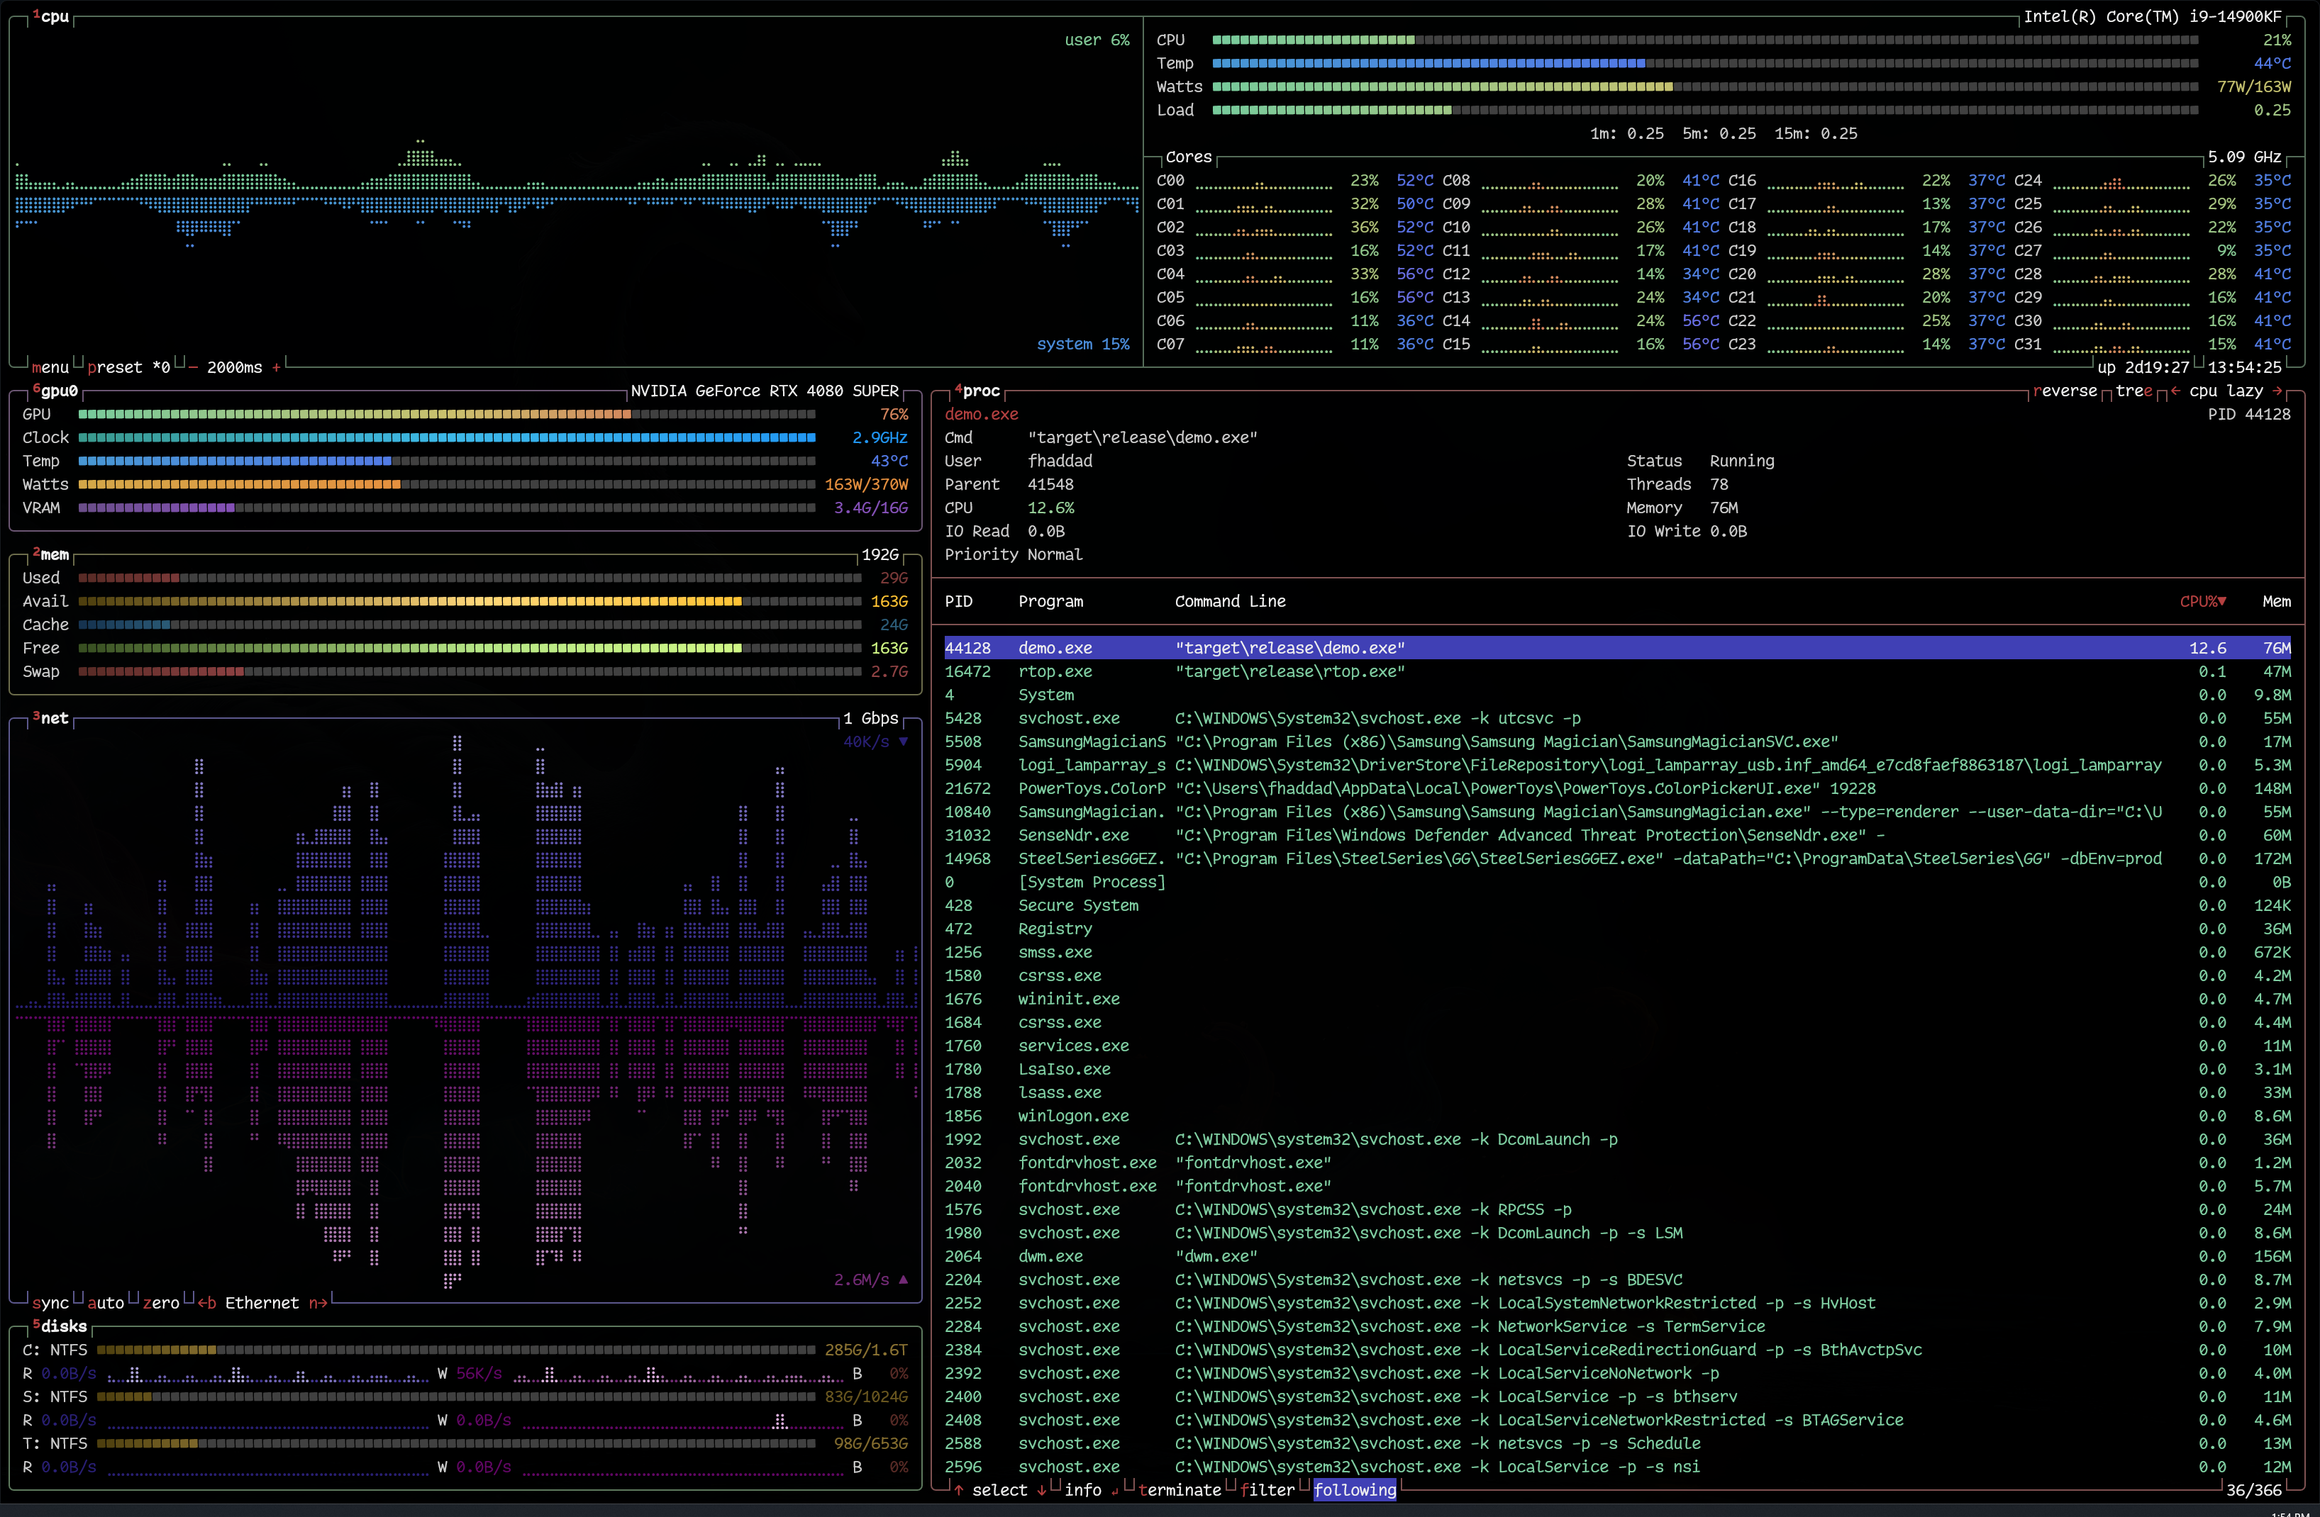
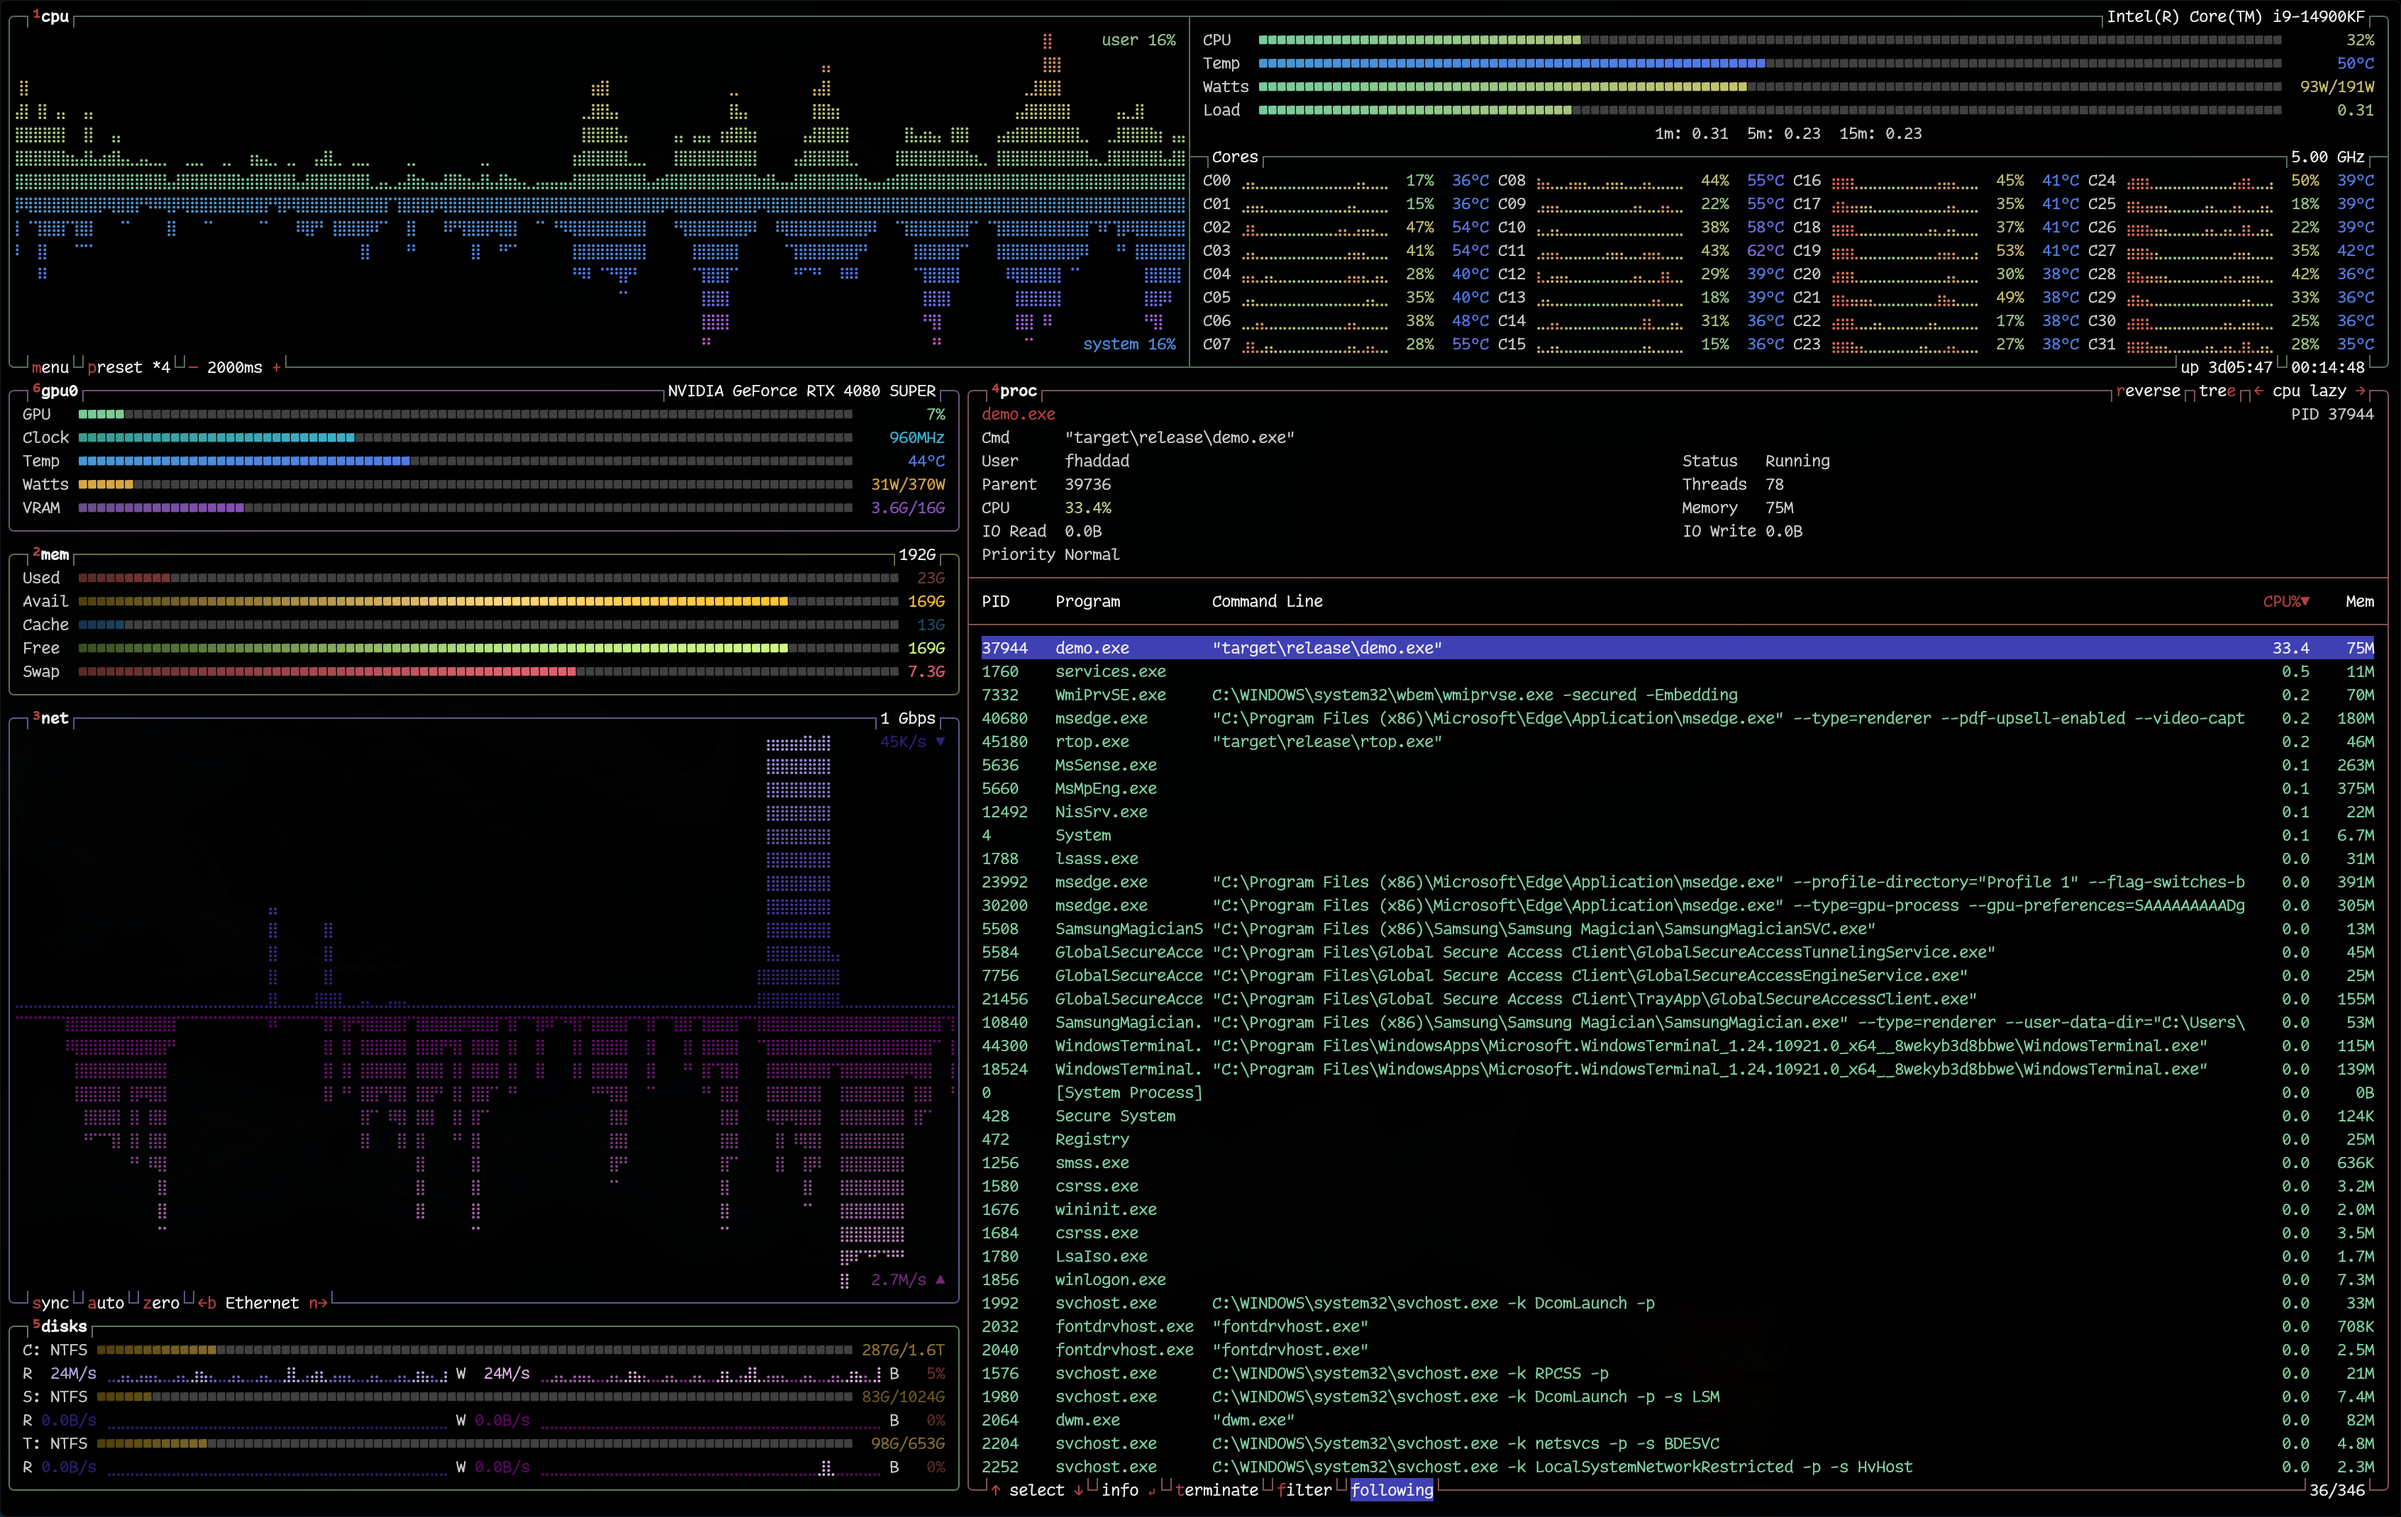
feat: opt-in cpu graph auto-scale
The CPU widget previously rendered both main graphs against a
hardcoded 0-100 y-axis, so a CPU hovering at 3-5% appeared as a
flat band hugging the bottom of the box. The net widget already
auto-scales (`net_auto`, default on) — make the same option
available for CPU.

Add `cpu_auto_scale: bool` config (default `false`, preserves
current behaviour). When enabled, each main graph's y-axis maxes
at the largest value in its visible window — same algorithm the
net widget uses. Upper and lower graphs scale independently
because they may be showing different sources (user vs system,
etc.).

Trade-off (why opt-in, not always-on). The current absolute
scale has real semantic value: a glance at the graph height *is*
the CPU%. Auto-scale gives visibility into low-load
fluctuations but loses that direct mapping, and shifts the
gradient meaning — at 5% (the visible max) the bar renders red
because the gradient is `value / max * gradient_len`. That is
visually loud for a quiet machine, so default-off keeps the
existing semantics for users who don't opt in.

Implementation. New `graph_max(data, width, auto_scale)` helper
in `src/ui/cpu_widget.rs` returns 100 when off, otherwise the
visible-window max with a `.max(1)` floor (avoids a degenerate
all-zero window dividing cleanly to 0). Callers pass it as the
`max_value` argument to `Graph::new` for the upper graph (line
334 in the rewritten file) and the lower graph (line 363). New
`auto_scale` field on `CpuWidgetSettings` plumbed from
[…]

diff --git a/src/ui/cpu_widget.rs b/src/ui/cpu_widget.rs
@@ -9,6 +9,7 @@ use crate::draw::meter::Meter;
 use crate::theme::{Theme, gradient_color};
 use crate::theme_keys as tc;
 use crate::tools;
+use std::collections::VecDeque;
 
 use super::WidgetArea;
 
@@ -21,6 +22,11 @@ pub struct CpuWidgetSettings<'a> {
     pub show_coretemp: bool,
     pub temp_scale: TempScale,
     pub single_graph: bool,
+    /// When `true`, scale each main graph's y-axis to the largest
+    /// value in its visible window (matches the net widget). When
+    /// `false` (default), scale to a fixed 0-100 absolute range —
+    /// the height of the bar then directly maps to the CPU%.
+    pub auto_scale: bool,
     pub update_ms: u64,
     pub current_preset: i64,
     pub invert_lower: bool,
@@ -59,6 +65,28 @@ pub fn stats_row_count(has_temp: bool, has_watts: bool) -> usize {
         n += 1;
     }
     n
+}
+
+/// Compute the y-axis maximum for a CPU graph row.
+///
+/// When `auto_scale` is `false` (default) returns 100 — the natural
+/// upper bound for CPU%. When `true`, returns the largest value in
+/// the most recent `width` data points (matches the net widget's
+/// `net_auto` algorithm). The `.max(1)` floor avoids a degenerate
+/// max=0 reading on an all-zero window; `Graph::new` would replace
+/// max=0 with 100 internally, but flooring at 1 keeps the
+/// per-frame semantic stable when data first becomes non-zero.
+fn graph_max(data: &VecDeque<i64>, width: usize, auto_scale: bool) -> i64 {
+    if !auto_scale {
+        return 100;
+    }
+    data.iter()
+        .rev()
+        .take(width.max(1))
+        .copied()
+        .max()
+        .unwrap_or(0)
+        .max(1)
 }
 
 /// Grid layout for the per-core display area.
@@ -315,7 +343,8 @@ pub fn draw(
         && graph_width > 0
         && let Some(data) = get_cpu_series(&cpu.cpu_percent, upper_key)
     {
-        let mut graph = Graph::new(graph_width, upper_h, graph_sym, false, 100, 0);
+        let max = graph_max(data, graph_width, settings.auto_scale);
+        let mut graph = Graph::new(graph_width, upper_h, graph_sym, false, max, 0);
         let rows = graph.render_rows(data, cpu_upper_gradient);
         for (i, row) in rows.iter().enumerate() {
             buf.mv(x + 2, y + 2 + i).text(row);
@@ -344,12 +373,13 @@ pub fn draw(
         && let Some(data) = get_cpu_series(&cpu.cpu_percent, lower_key)
     {
         let lower_start_y = y + 2 + upper_h;
+        let max = graph_max(data, graph_width, settings.auto_scale);
         let mut graph = Graph::new(
             graph_width,
             lower_h,
             graph_sym,
             settings.invert_lower,
-            100,
+            max,
             0,
         );
         let rows = graph.render_rows(data, cpu_lower_gradient);
@@ -796,6 +826,7 @@ mod tests {
             show_coretemp: false,
             temp_scale: TempScale::Celsius,
             single_graph: false,
+            auto_scale: false,
             update_ms: 2000,
             current_preset: 0,
             invert_lower: true,
@@ -1104,5 +1135,60 @@ mod tests {
         assert_eq!(grid.col_offset(0), 0);
         assert_eq!(grid.col_offset(1), stride);
         assert_eq!(grid.col_offset(2), stride * 2);
+    }
+
+    // ----- graph_max / auto-scale --------------------------------------
+
+    #[test]
+    fn graph_max_off_returns_fixed_100() {
+        let data: VecDeque<i64> = VecDeque::from([5, 10, 7]);
+        assert_eq!(graph_max(&data, 80, false), 100);
+        let empty: VecDeque<i64> = VecDeque::new();
+        assert_eq!(graph_max(&empty, 80, false), 100);
+    }
+
+    #[test]
+    fn graph_max_on_returns_visible_window_max() {
+        let data: VecDeque<i64> = VecDeque::from([99, 88, 5, 10, 7]);
+        // Width covers the last 3 values only; 99 and 88 fall outside.
+        assert_eq!(graph_max(&data, 3, true), 10);
+        // Wider window includes the older spike.
+        assert_eq!(graph_max(&data, 80, true), 99);
+    }
+
+    #[test]
+    fn graph_max_on_floors_at_one_for_empty_or_zero_data() {
+        let empty: VecDeque<i64> = VecDeque::new();
+        assert_eq!(graph_max(&empty, 80, true), 1);
+        let zeros: VecDeque<i64> = VecDeque::from([0, 0, 0]);
+        assert_eq!(graph_max(&zeros, 80, true), 1);
+    }
+
+    #[test]
+    fn auto_scale_changes_rendered_graph_for_low_values() {
+        // With fixed 0-100 scale, low values render as a mostly-empty
+        // graph. With auto-scale, the same low values fill the box.
+        // The two outputs must differ.
+        let area = make_area();
+        let theme = Theme::default();
+        let mut cpu = CpuInfo::default();
+        // Low-percentage data so the rescale is dramatic.
+        let low: VecDeque<i64> = VecDeque::from([3, 5, 4, 6, 5, 4, 3, 5]);
+        cpu.cpu_percent.user = low.clone();
+        cpu.cpu_percent.system = low;
+
+        let mut s_off = make_settings();
+        s_off.auto_scale = false;
+        let out_off = draw(&cpu, &area, &theme, &s_off, &CollectStatus::Ok);
+
+        let mut s_on = make_settings();
+        s_on.auto_scale = true;
+        let out_on = draw(&cpu, &area, &theme, &s_on, &CollectStatus::Ok);
+
+        assert_ne!(
+            out_off, out_on,
+            "auto_scale=true must produce different graph output \
+             than auto_scale=false on a low-value data series"
+        );
     }
 }

diff --git a/src/config.rs b/src/config.rs
@@ -110,6 +110,7 @@ pub struct Config {
     pub keep_dead_proc_usage: bool,
     pub cpu_invert_lower: bool,
     pub cpu_single_graph: bool,
+    pub cpu_auto_scale: bool,
     pub show_uptime: bool,
     pub show_cpu_watts: bool,
     pub check_temp: bool,
@@ -198,6 +199,7 @@ impl Default for Config {
             keep_dead_proc_usage: false,
             cpu_invert_lower: true,
             cpu_single_graph: false,
+            cpu_auto_scale: false,
             show_uptime: true,
             show_cpu_watts: true,
             check_temp: true,
@@ -617,6 +619,7 @@ pub enum ConfigKey {
     KeepDeadProcUsage,
     CpuInvertLower,
     CpuSingleGraph,
+    CpuAutoScale,
     CpuBottom,
     ShowUptime,
     ShowCpuWatts,
@@ -697,6 +700,7 @@ impl ConfigKey {
             Self::KeepDeadProcUsage => "keep_dead_proc_usage",
             Self::CpuInvertLower => "cpu_invert_lower",
             Self::CpuSingleGraph => "cpu_single_graph",
+            Self::CpuAutoScale => "cpu_auto_scale",
             Self::CpuBottom => "cpu_bottom",
             Self::ShowUptime => "show_uptime",
             Self::ShowCpuWatts => "show_cpu_watts",
@@ -774,6 +778,7 @@ impl ConfigKey {
             | Self::KeepDeadProcUsage
             | Self::CpuInvertLower
             | Self::CpuSingleGraph
+            | Self::CpuAutoScale
             | Self::CpuBottom
             | Self::ShowUptime
             | Self::ShowCpuWatts
@@ -850,6 +855,7 @@ impl ConfigKey {
             "keep_dead_proc_usage" => Some(Self::KeepDeadProcUsage),
             "cpu_invert_lower" => Some(Self::CpuInvertLower),
             "cpu_single_graph" => Some(Self::CpuSingleGraph),
+            "cpu_auto_scale" => Some(Self::CpuAutoScale),
             "cpu_bottom" => Some(Self::CpuBottom),
             "show_uptime" => Some(Self::ShowUptime),
             "show_cpu_watts" => Some(Self::ShowCpuWatts),
@@ -931,6 +937,7 @@ impl ConfigKey {
             Self::KeepDeadProcUsage => bool_display(config.keep_dead_proc_usage),
             Self::CpuInvertLower => bool_display(config.cpu_invert_lower),
             Self::CpuSingleGraph => bool_display(config.cpu_single_graph),
+            Self::CpuAutoScale => bool_display(config.cpu_auto_scale),
             Self::CpuBottom => bool_display(config.cpu_bottom()),
             Self::ShowUptime => bool_display(config.show_uptime),
             Self::ShowCpuWatts => bool_display(config.show_cpu_watts),
@@ -1016,6 +1023,7 @@ impl ConfigKey {
             Self::KeepDeadProcUsage => config.keep_dead_proc_usage = !config.keep_dead_proc_usage,
             Self::CpuInvertLower => config.cpu_invert_lower = !config.cpu_invert_lower,
             Self::CpuSingleGraph => config.cpu_single_graph = !config.cpu_single_graph,
+            Self::CpuAutoScale => config.cpu_auto_scale = !config.cpu_auto_scale,
             Self::CpuBottom => config.set_cpu_bottom(!config.cpu_bottom()),
             Self::ShowUptime => config.show_uptime = !config.show_uptime,
             Self::ShowCpuWatts => config.show_cpu_watts = !config.show_cpu_watts,

diff --git a/src/app.rs b/src/app.rs
@@ -293,7 +293,12 @@ impl OverlayState {
             self.menu_state,
             new,
         );
-        debug_assert!(
+        // The buffer-invariant check is `assert!`, not `debug_assert!`,
+        // because release builds must crash on a dangling
+        // `option_edit` rather than silently render with inconsistent
+        // state. Cost is one boolean per menu transition (handled on
+        // user keystrokes, not per frame), which is negligible.
+        assert!(
             new == MenuState::OptionsEdit || self.option_edit.is_none(),
             "option_edit must be cleared before transitioning to {:?}",
             new,
@@ -1089,6 +1094,7 @@ pub(crate) fn render_all(
             show_coretemp: config.show_coretemp,
             temp_scale: config.temp_scale,
             single_graph: config.cpu_single_graph,
+            auto_scale: config.cpu_auto_scale,
             update_ms,
             current_preset: config.current_preset,
             invert_lower: config.cpu_invert_lower,

diff --git a/src/menu/options_menu.rs b/src/menu/options_menu.rs
@@ -242,6 +242,18 @@ pub const CPU: &[OptDef] = &[
         ],
     },
     OptDef {
+        key: ConfigKey::CpuAutoScale,
+        desc: &[
+            "Auto-scale CPU graph y-axis.",
+            "",
+            "Off: graph height maps to absolute",
+            "0-100% (default).",
+            "On: scale to the largest visible",
+            "value (recolours by visible max,",
+            "not absolute %).",
+        ],
+    },
+    OptDef {
         key: ConfigKey::CheckTemp,
         desc: &[
             "CPU temperature monitoring.",
